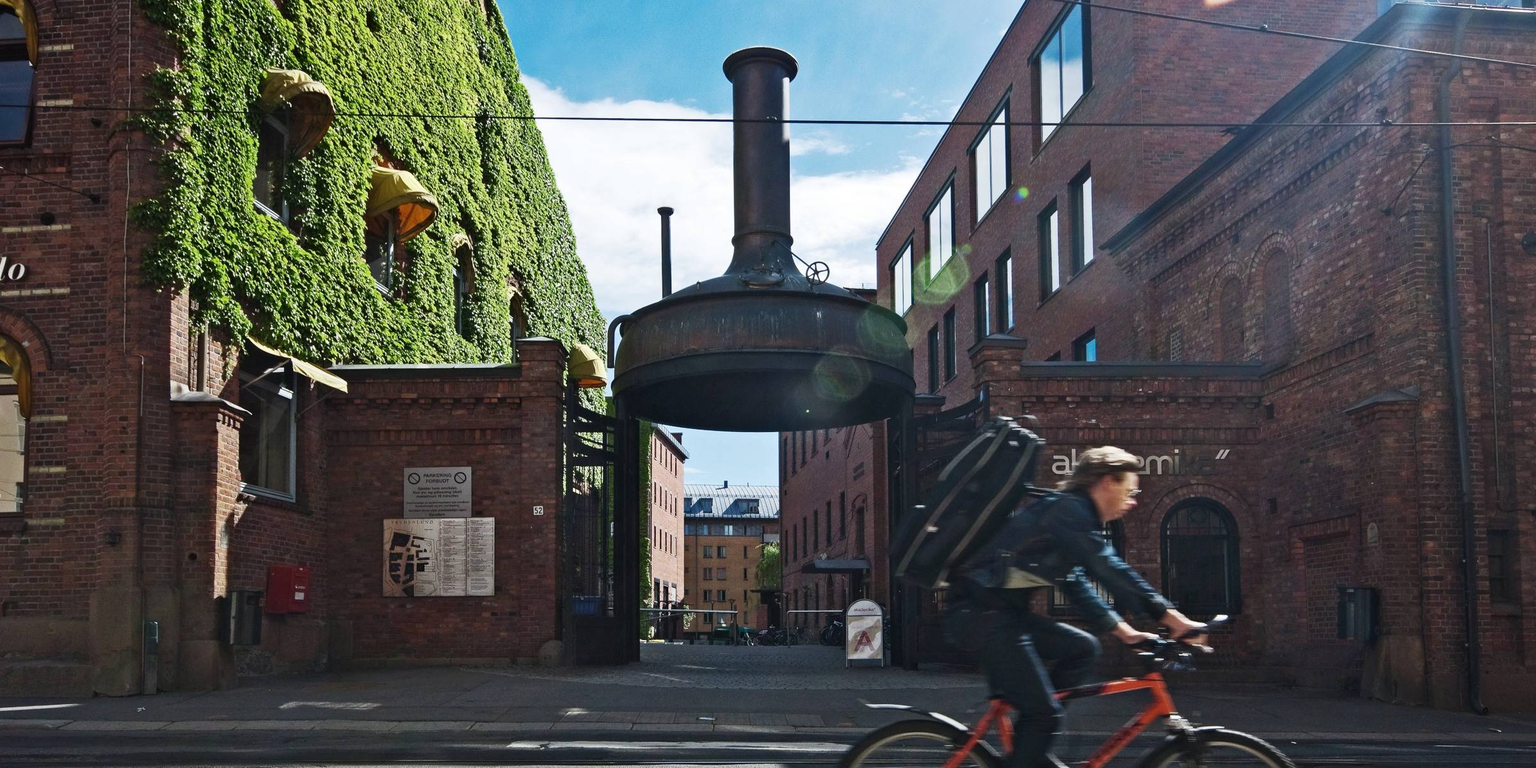
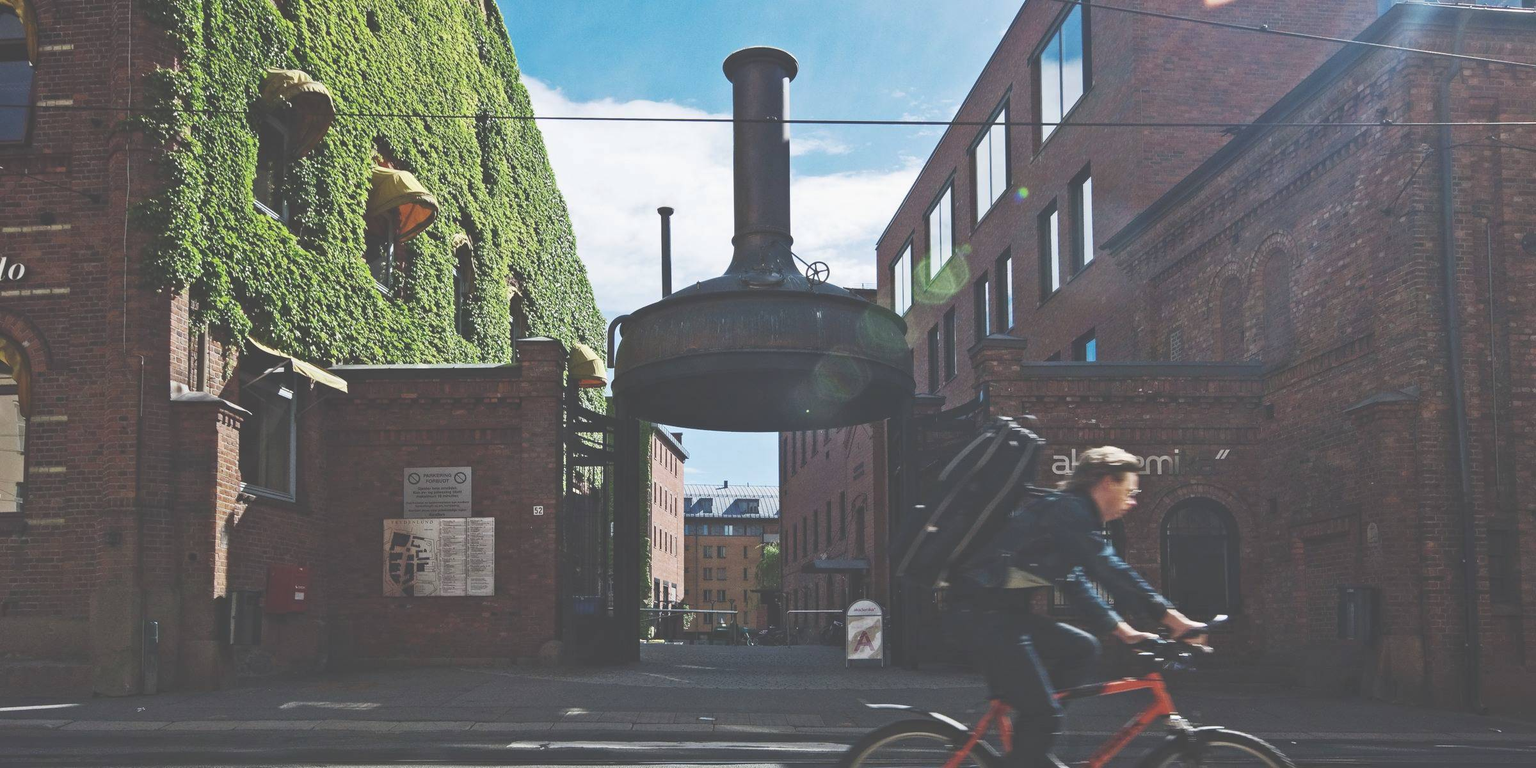
fiksabilde + tydeligere tekst

diff --git a/styles/style.css b/styles/style.css
@@ -8,7 +8,7 @@
 .index-header {
     min-height: 100vh;
     width: 100%;
-    background-image: url(../Bilder/OsloMet-bygg2.jpeg); /* source: from OsloMet main page: https://ansatt.oslomet.no/siste-nytt/-/nyhet/siste-nytt-fra-campusprogrammet-*/
+    background-image: url(../Bilder/pilestredet.jpeg); /* source: from OsloMet main page: https://ansatt.oslomet.no/siste-nytt/-/nyhet/siste-nytt-fra-campusprogrammet-*/
     background-position: center;
     background-size: cover;
     position: relative;
@@ -62,7 +62,7 @@ width: 100%;
 
 
 @media (max-width: 700px) and (min-width:701px) { /* Code from Tengel */
-    .index-menu-icon {
+   .index-menu-icon {
         display: block;
         background-image: url(../Bilder/menu-bar.png);
         background-size:cover;
@@ -87,7 +87,7 @@ width: 100%;
 
 .index-textbox {
     width: 90%;
-    color:orange;
+    color:rgb(234, 120, 38);
     position: absolute;
     top: 50%;
     left: 50%;
@@ -95,31 +95,42 @@ width: 100%;
     text-align: center;
 }
 
-.index-textbox h1 {
+.index-header-content {
+    background-color: rgba(0, 0, 0, 0.8);
+    padding: 20px;
+    border-radius: 10px;
+}
+
+.index-header-content h1 {
+    color: orange;
     font-size: 62px;
+    margin-bottom: 10px;
 }
 
 .index-textbox p{
-    margin: 10px 0 40 px;
-    font-size: 14px;
-    color: #fff;
+    color: white;
+    background-color: rgba(0, 0, 0, 0.8);
+    padding:20px;
+    border-radius:10px;
 }
 
 .index-button {
     display: inline-block;
     text-decoration: none;
     color:#fff;
-    border: 1px solid #fff;
-    padding: 12px 34px;
-    font-size: 13px;
-    background: transparent;
+    border: 2px solid #fff;
+    padding: 15px 40px;
+    font-size: 18px;
+    background-color: rgba(0, 0, 0, 0.8);
     position: relative;
     cursor: pointer;
+    transition:all 0.3s ease; /* add tranisition for smoother effect*/
+    border-radius:5px;
 }
 
 .index-button:hover {
-    border: 1px solid #eee95b;
-    background: #eee95b;
+    border: 1px solid orangered;
+    background: orangered;
     transition: 1s;
 }
 
@@ -150,7 +161,7 @@ width: 100%;
 }
 
 .opening-hours, .closed{
-    color:#EA486E
+    color:#980000
 }
 
 /* index footer*/
@@ -296,7 +307,7 @@ width: 100%;
 h1.accesibility {
     margin-top: 20px;
     margin-bottom: 60px;
-   text-align: center;
+    text-align: center;
 }
 
 h2 {
@@ -386,12 +397,13 @@ aside {
 margin-bottom: 5px;
 }
 
-footer {
-    text-align: center;
-    background-color:#EA486E;
-    position:sticky;
-    margin-bottom: 0%;
-    height: 100px;
+.footer {
+    display: grid;
+    grid-template-columns: repeat(3,1fr);
+    place-items: center;
+    height: 60px;
+    background-color: #EA486E;
+    color: black;
 }
 
 #logo {

diff --git a/library.html b/library.html
@@ -81,8 +81,23 @@
       </div>
         <br>
       </div>
-           <footer id="section-4">
-            <p>Copyright © 2023 group22, inc</p>
-          </footer>
+      <footer class="footer">
+        <div class="footer-left">
+          <h1> OsloMet</h1>
+        </div>
+        <div class="footer-center">
+        <span class="footer-contact"> 
+          Contact info: <br>
+          contact@oslomet.no
+        </span>
+        </div>
+        <div class="footer-right">
+          <span class="footer-opening"> 
+            Opening hours: <br>
+            Mon-Fri: 07.00-21.00 <br>
+            Sat-Sun: Closed
+          </span>
+        </div>
+      </footer>
     </body>
 </html>

diff --git a/topical.html b/topical.html
@@ -57,8 +57,23 @@
           </div>
         </div>
 
-    <footer id="section-4">
-      <p>Copyright © 2023 group22, inc</p>
+    <footer class="footer">
+      <div class="footer-left">
+        <h1> OsloMet</h1>
+      </div>
+      <div class="footer-center">
+      <span class="footer-contact"> 
+        Contact info: <br>
+        contact@oslomet.no
+      </span>
+      </div>
+      <div class="footer-right">
+        <span class="footer-opening"> 
+          Opening hours: <br>
+          Mon-Fri: 07.00-21.00 <br>
+          Sat-Sun: Closed
+        </span>
+      </div>
     </footer>
   </body>
 </html>

diff --git a/accessibility.html b/accessibility.html
@@ -91,8 +91,23 @@
       </p>
     </div>
 
-    <footer id="section-4">
-      <p>Copyright © 2023 group22, inc</p>
+    <footer class="footer">
+      <div class="footer-left">
+        <h1> OsloMet</h1>
+      </div>
+      <div class="footer-center">
+      <span class="footer-contact"> 
+        Contact info: <br>
+        contact@oslomet.no
+      </span>
+      </div>
+      <div class="footer-right">
+        <span class="footer-opening"> 
+          Opening hours: <br>
+          Mon-Fri: 07.00-21.00 <br>
+          Sat-Sun: Closed
+        </span>
+      </div>
     </footer>
   </body>
 </html>

diff --git a/index.html b/index.html
@@ -34,7 +34,9 @@
       </nav>
   
       <div class="index-textbox">
+        <div class="index-header-content">
         <h1> OsloMet Campus</h1>
+        </div>
         <!-- Text source: https://www.oslomet.no/en/about/pilestredet-campus -->
         <p> Welcome to Norways most urban university campus <br>
           Our Pilestredet campus is surrounded by cafes for reading or meeting friends and restaurants where you can buy lunch at student-friendly prices. <br>
